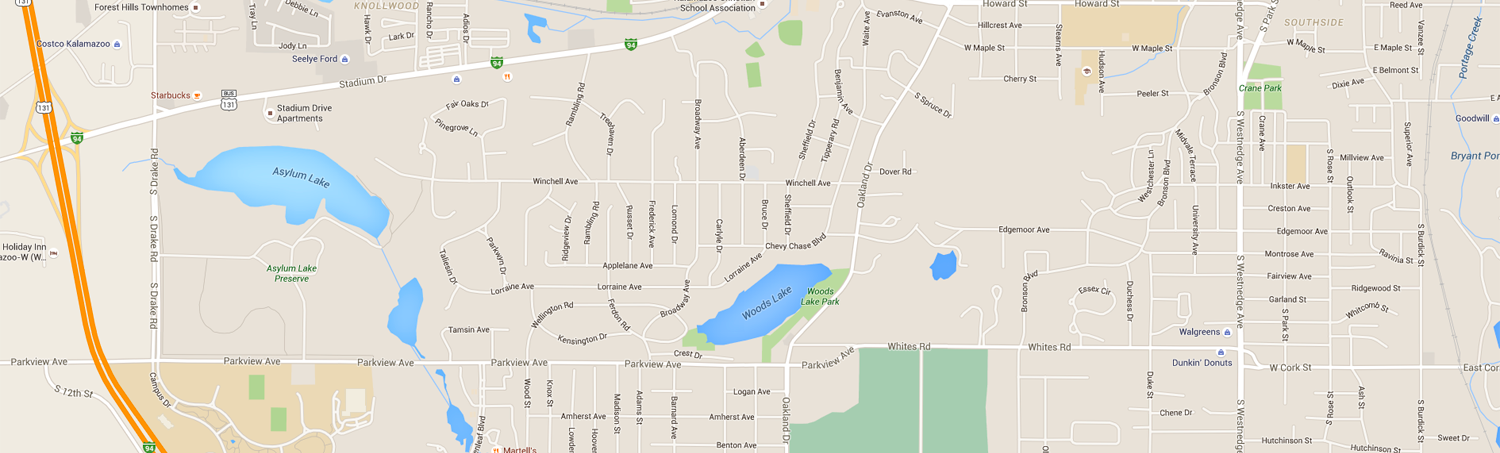
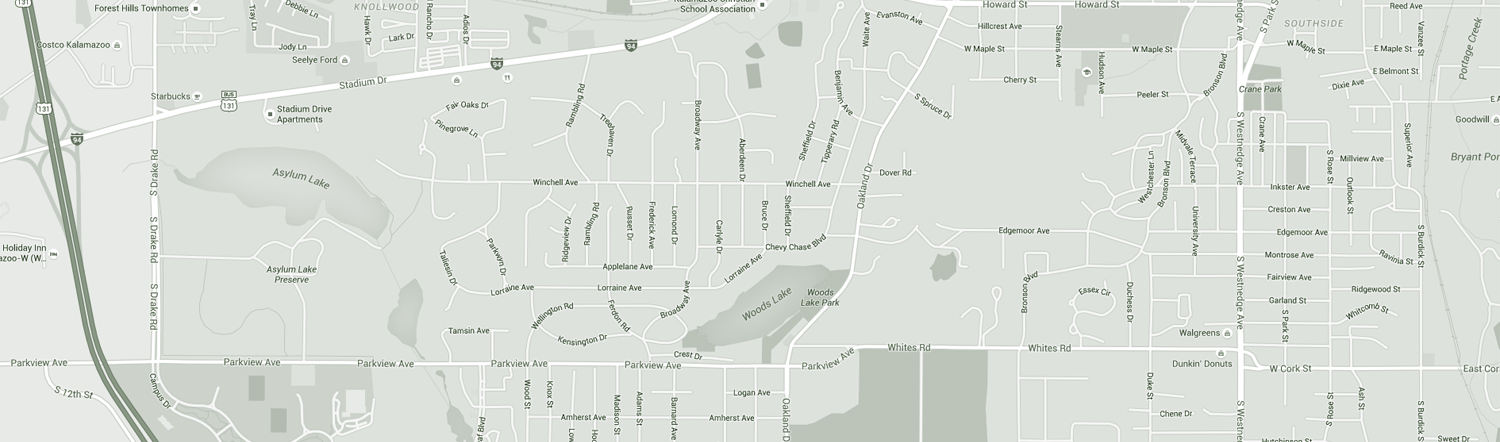
form

diff --git a/index - contact.html b/index - contact.html
@@ -12,46 +12,68 @@
 </head>
 <body>
 
-	<div class="main-section section">
-		
-		<nav class="navbar section-header">
-			<div class="container">
-				<div class="navbar-header">
-					<a href="index.html" class="navbar-brand">
-						<img src="img/logo-d.png" alt="">
-					</a>
-					<a href="#navbar-collapse" class="navbar-toggler">
-						<span class="icon-bar"></span>
-						<span class="icon-bar"></span>
-						<span class="icon-bar"></span>
-					</a>
+	<nav class="navbar section-header">
+		<div class="container">
+			<div class="navbar-header">
+				<a href="index.html" class="navbar-brand">
+					<img src="img/logo-d.png" alt="">
+				</a>
+				<a href="#navbar-collapse" class="navbar-toggler">
+					<span class="icon-bar"></span>
+					<span class="icon-bar"></span>
+					<span class="icon-bar"></span>
+				</a>
+			</div>
+			<div class="navbar-collapse" id="navbar-collapse">
+				<div class="contact">
+					<span class="icon-phone"></span>
+					<span class="number">+62 202 555 0117</span>
 				</div>
-				<div class="navbar-collapse" id="navbar-collapse">
-					<div class="contact">
-						<span class="icon-phone"></span>
-						<span class="number">+62 202 555 0117</span>
+				<ul class="navbar-nav unstyle">
+					<li class="navbar-item">
+						<a href="index.html" class="navbar-link">home</a>
+					</li>
+					<li class="navbar-item">
+						<a href="index - about-us.html" class="navbar-link">about us</a>
+					</li>
+					<li class="navbar-item">
+						<a href="index - pricing.html" class="navbar-link">pricing</a>
+					</li>
+					<li class="navbar-item">
+						<a href="index - contact.html" class="navbar-link">contact us</a>
+					</li>
+					<li class="navbar-item">
+						<a href="" class="button link-btn-inv">get started</a>
+					</li>
+				</ul>
+			</div>
+		</div>	
+	</nav>
+
+	<div class="section">
+		<div class="section-overlay" style="background-image: url(img/map.png);"></div>
+		<div class="empty"></div>
+	</div>
+
+	<div class="section get-in-touch">
+		<div class="container">
+			<div class="section-header">
+				<h2 class="h2 deco-line">Get In Touch With Us</h2>
+				<p class="description">We are here to help. Want to learn more about our services? Please get in touch, we'd love to hear from you!</p>
+			</div>
+			<div class="section-body">
+				<div class="form-wrapper">
+					<div class="form-group">
+						<input  class="form-control" type="text" placeholder="Name">
+						<input  class="form-control" type="text" placeholder="Email">
+						<input  class="form-control" type="text" placeholder="Phone">
+						<textarea class="form-control" type="text" placeholder="Message"></textarea>
+						<button class="button">send message</button>				
 					</div>
-					<ul class="navbar-nav unstyle">
-						<li class="navbar-item">
-							<a href="index.html" class="navbar-link">home</a>
-						</li>
-						<li class="navbar-item">
-							<a href="index - about-us.html" class="navbar-link">about us</a>
-						</li>
-						<li class="navbar-item">
-							<a href="index - pricing.html" class="navbar-link">pricing</a>
-						</li>
-						<li class="navbar-item">
-							<a href="index - contact.html" class="navbar-link">contact us</a>
-						</li>
-						<li class="navbar-item">
-							<a href="" class="button link-btn-inv">get started</a>
-						</li>
-					</ul>
+					<div></div>
 				</div>
-			</div>	
-		</nav>
-		
+			</div>
+		</div>
 	</div>
 	
 	<div class="section-body download">

diff --git a/css/main.css b/css/main.css
@@ -825,6 +825,9 @@ textarea.form-control {
     text-align: center;
   }
 }
+.empty {
+  height: 400px;
+}
 .btn-bg-inv {
   background: #83a7a5;
 }
@@ -855,8 +858,12 @@ textarea.form-control {
   margin-left: 0;
 }
 .main-section {
-  min-height: 660px;
-  padding-top: 0;
+  min-height: 43vw;
+  padding-top: 0px;
+}
+.main-section .section-body {
+  padding-top: 50px;
+  padding-bottom: 50px;
 }
 .main-section .h1 {
   font-size: 38px;
@@ -870,7 +877,7 @@ textarea.form-control {
   }
 }
 .main-section-md {
-  min-height: 600px;
+  min-height: 39vw;
 }
 .main-section-md .section-body > .container {
   display: -webkit-flex;
@@ -1349,6 +1356,38 @@ textarea.form-control {
 }
 .include .plans > .h2 {
   font-size: 32px;
+}
+.get-in-touch {
+  padding-bottom: 80px;
+}
+@media all and (max-width: 600px) {
+  .get-in-touch {
+    padding-bottom: 30px;
+  }
+}
+.get-in-touch > .container {
+  display: inherit;
+  -webkit-flex-direction: column;
+  -ms-flex-direction: column;
+  flex-direction: column;
+}
+.get-in-touch .description {
+  max-width: 416px;
+  margin-left: auto;
+  margin-right: auto;
+}
+.get-in-touch .form-group {
+  max-width: 510px;
+}
+.get-in-touch .form-wrapper {
+  padding: 65px 65px 21px;
+}
+.get-in-touch .form-control {
+  margin-bottom: 25px;
+  border-radius: 2px;
+}
+.get-in-touch textarea {
+  min-height: 120px;
 }
 .download {
   position: relative;

diff --git a/less/main.less b/less/main.less
@@ -75,6 +75,9 @@
 	}
 }
 
+.empty{
+	height: 400px;
+}
 
 //button
 	.hook-button() {
@@ -265,8 +268,12 @@
 
 //main-section
 	.main-section{
-		min-height: 660px;
-		padding-top: 0;
+		min-height: 43vw;
+		padding-top: 0px;
+		.section-body{
+			padding-top: 50px;
+			padding-bottom: 50px;
+		}
 		
 		.h1{
 			font-size: 38px;
@@ -279,7 +286,7 @@
 	}
 
 	.main-section-md{
-		min-height: 600px;
+		min-height: 39vw;
 		.section-body>.container{
 			display: flex;
 			flex-direction: column;
@@ -726,6 +733,37 @@
 		padding-top: 0;
 		.plans>.h2{
 			font-size: 32px;
+		}
+	}
+
+//get-in-touch
+	.get-in-touch{
+		padding-bottom: 80px;
+		@media all and (max-width: 600px){
+			padding-bottom: 30px;
+		}
+		>.container{
+			display: inherit;
+			flex-direction: column;
+		}
+		.description{
+			max-width: 416px;
+			margin-left: auto;
+			margin-right: auto;
+		}
+		.form-group{
+			max-width: 510px;
+		}
+		.form-wrapper{
+			padding: 65px 65px 21px;
+		}
+
+		.form-control{
+			margin-bottom: 25px;
+			border-radius: 2px;
+		}
+		textarea{
+			min-height: 120px;
 		}
 	}
 
